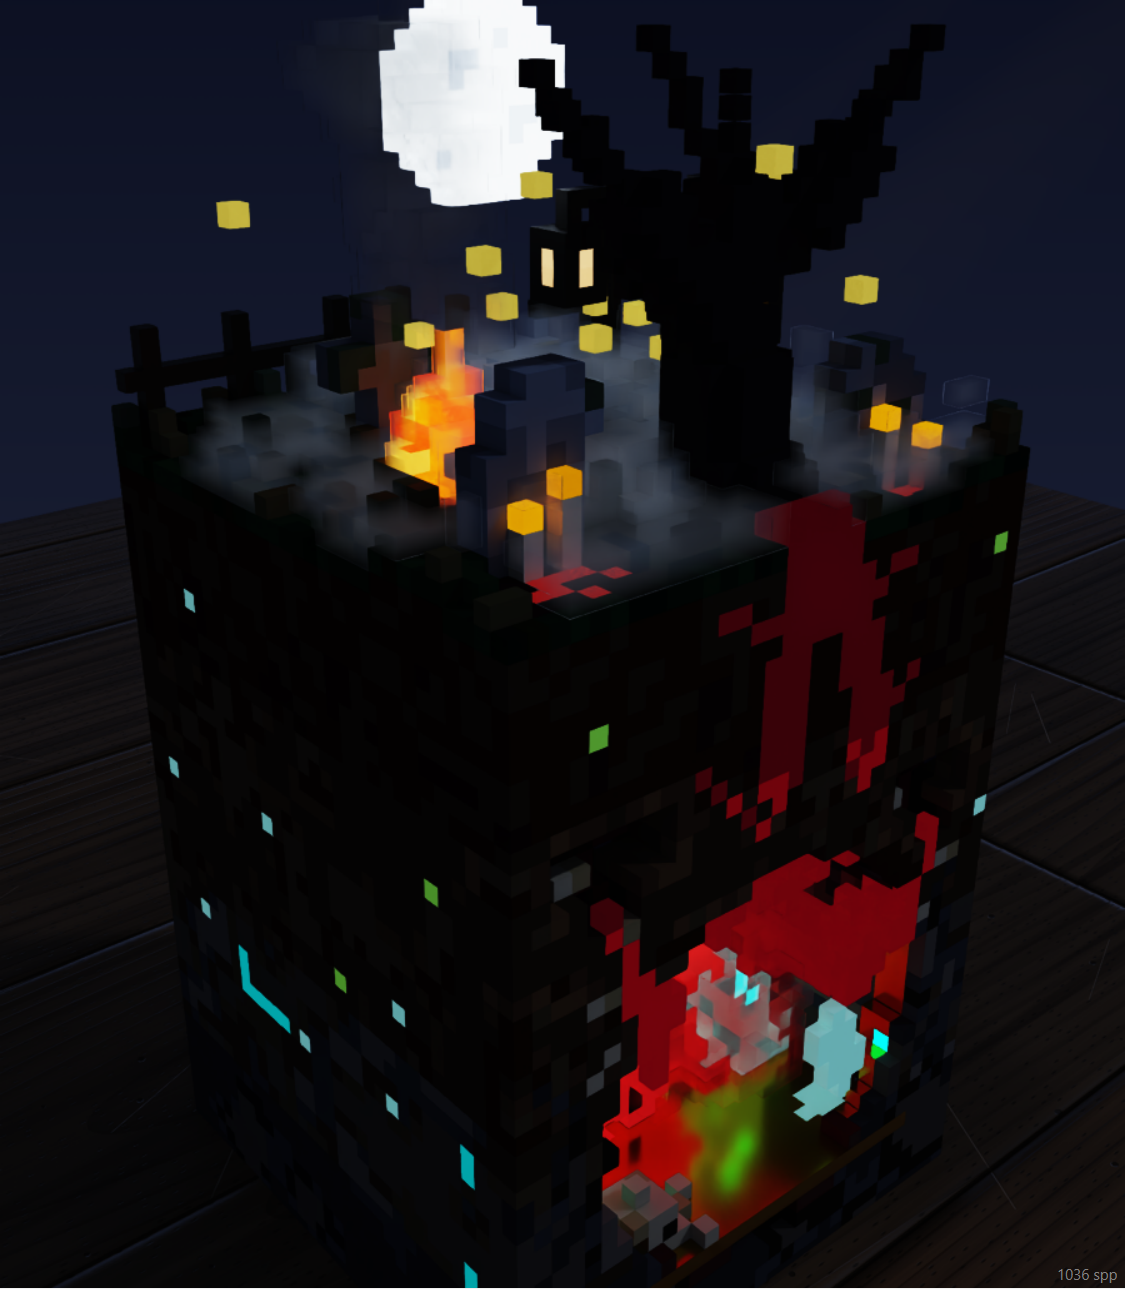
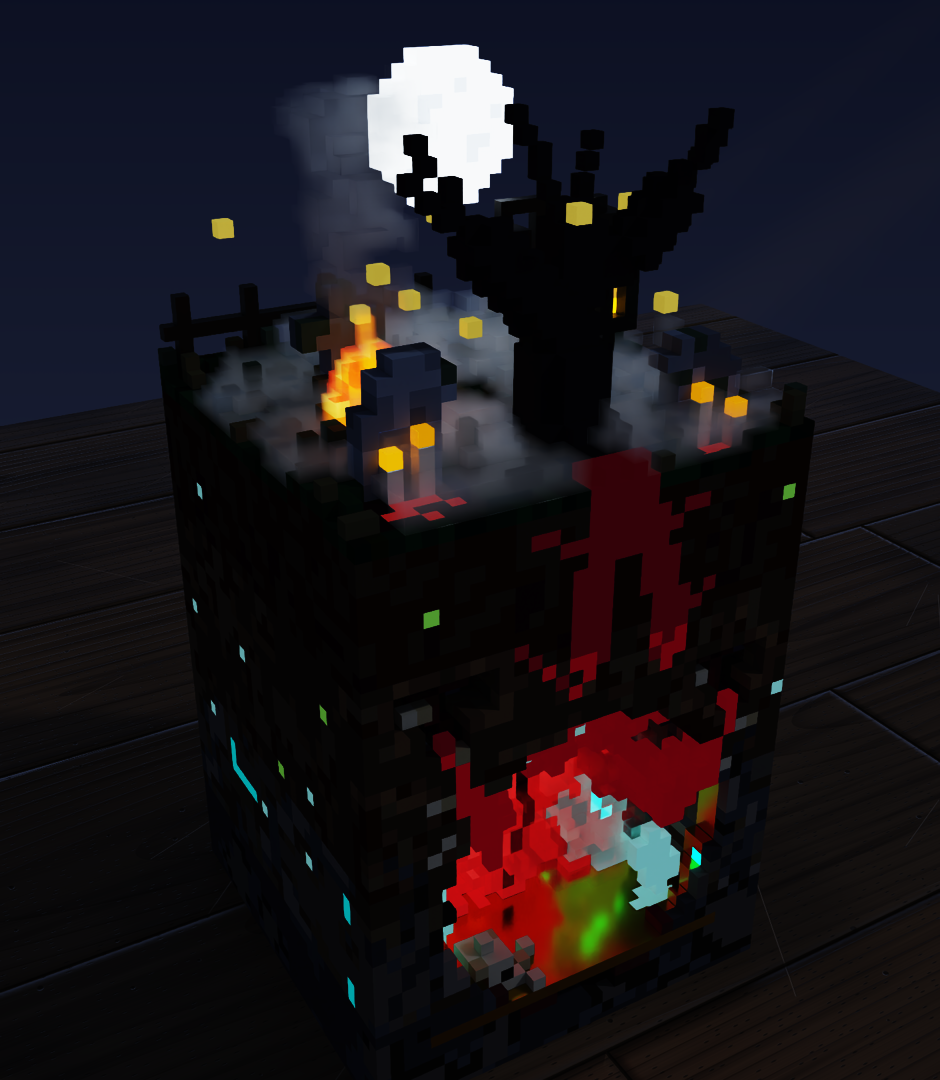
0.3.1: gases that touch keep their look, thick gas keeps its colour
Where two gases meet, each now keeps its own look (fog inside haze used
to draw as haze). The voxel colour is how a thick body of gas looks, so
white steam stays white however deep (it went grey, then black, past
about 8 voxels). Small puffs of gas no longer glow along their edges.
Two GPU tests cover the cases. The gas picture is retaken.

Needs the 0.3.1 renderer zip.

diff --git a/editor/tests/test_gas.py b/editor/tests/test_gas.py
@@ -1,0 +1,77 @@
+"""Gas in the renderer, on synthetic scenes (the GPU; SKIP_GPU=1 skips): a thick body of white steam stays
+white instead of greying to black, and where two gases touch, each keeps its own look."""
+import io
+import os
+import sys
+import unittest
+from pathlib import Path
+
+import numpy as np
+
+EDITOR = Path(__file__).resolve().parents[1]
+sys.path.insert(0, str(EDITOR))
+import sandbox  # noqa: E402,F401  the user's own editor and settings are left alone
+from headless_api import VoxelEditor  # noqa: E402
+
+STEAM, MIST, GLOWING_GAS = 35, 36, 37
+
+
+def picture(editor, yaw, pitch, light, width=800, height=400, samples=256):
+    from PIL import Image
+    png = editor.render_png(yaw, pitch, width, height, samples, light)
+    return np.asarray(Image.open(io.BytesIO(png)).convert("RGB")).astype(float) / 255
+
+
+def patch(editor, rgb, yaw, pitch, voxel):
+    """The mean colour of a 7 x 7 patch around where a voxel position shows in the picture."""
+    engine = editor._engine
+    eye, forward, right, up = engine.orbit_camera(yaw, pitch)
+    point = np.asarray(engine.origin[:3]) + np.asarray(voxel) / 32 - eye
+    depth = point @ forward
+    height, width = rgb.shape[:2]
+    fov = np.tan(np.radians(22.5))
+    u = (point @ right) / (depth * fov * width / height)
+    v = (point @ up) / (depth * fov)
+    x, y = int((u + 1) / 2 * width), int((1 - v) / 2 * height)
+    return rgb[y - 3:y + 4, x - 3:x + 4].reshape(-1, 3).mean(axis=0)
+
+
+@unittest.skipIf(os.environ.get("SKIP_GPU") == "1", "SKIP_GPU=1")
+class GasTests(unittest.TestCase):
+    def setUp(self):
+        self.editor = VoxelEditor()
+        self.addCleanup(self.editor.close)
+
+    def renders_gas(self):
+        if not hasattr(self.editor._engine.dll, "renderer_set_floor"):
+            self.skipTest("this renderer build is from before gas could be thick")
+
+    def test_thick_steam_stays_white_seen_from_its_shadow_side(self):
+        e = self.editor
+        e.new_model(48, 30, 28)
+        white = e.model.nearest_slot((240, 242, 245))
+        e.paint_box([0, 0, 0], [47, 29, 0], e.model.nearest_slot((110, 120, 90)))
+        e.paint_box([4, 4, 1], [7, 7, 4], white, STEAM)  # 4 voxels: two scatters deep
+        e.paint_box([16, 2, 1], [39, 25, 24], white, STEAM)  # 24: twelve deep
+        rgb = picture(e, 180, 5, "Day")  # from behind: what shows has scattered many times
+        self.renders_gas()
+        thin = patch(e, rgb, 180, 5, (6, 6, 3)).mean()
+        thick = patch(e, rgb, 180, 5, (28, 14, 13)).mean()
+        self.assertGreater(thick, 0.85 * thin, (thin, thick))  # was 0.46 before
+
+    def test_touching_gases_each_keep_their_own_look(self):
+        e = self.editor
+        e.new_model(24, 30, 16)
+        e.paint_box([0, 0, 0], [23, 29, 0], e.model.nearest_slot((110, 120, 90)))
+        e.paint_box([4, 6, 1], [19, 9, 12], e.model.nearest_slot((220, 226, 235)), MIST)  # a sheet of mist in front
+        e.paint_box([4, 10, 1], [19, 25, 12], e.model.nearest_slot((120, 235, 90)), GLOWING_GAS)  # glowing behind it
+        rgb = picture(e, 0, 5, "Night")  # from the front, at night: only the glow behind can be green
+        self.renders_gas()
+        r, g, b = patch(e, rgb, 0, 5, (12, 6, 7))
+        # the glow's green (bright, so red rises through the tone curve); it was mist all through, a grey
+        self.assertGreater(g, 1.25 * r, (r, g, b))
+        self.assertGreater(g, 1.8 * b, (r, g, b))
+
+
+if __name__ == "__main__":
+    unittest.main()

diff --git a/palette/build_materials.py b/palette/build_materials.py
@@ -23,7 +23,7 @@ HERE = Path(__file__).resolve().parent
 # 0..1 (the share of the remaining diffuse light that scatters under the surface), sheen 0..1 (a soft,
 # fuzzy brightening at grazing angles: cloth, moss, dust) and anisotropy -0.95..0.95 (gas only).
 # Gas (group "gas") is a volume, not a surface: light crosses its boundary unbent and scatters
-# inside, once per density voxels on average, taking the voxel colour; anisotropy above 0 sends that
+# inside, once per density voxels on average, a thick body of it looking the voxel colour; anisotropy above 0 sends that
 # light on forward (mist and steam glow toward the sun), below 0 back. Emission glows all through it,
 # with a magic light's pattern when it has one (flames).
 MATERIALS = [

diff --git a/editor/docs/guide.md b/editor/docs/guide.md
@@ -235,7 +235,7 @@ The **Materials** dock lists the materials by group: rough, glossy, metal, glowi
 
 > **Tip:** rust patches, scratches and worn edges are not textures. Paint them voxel by voxel with materials such as **rust**, **worn metal**, **scratched metal** and **worn leather**.
 
-**Gas** (smoke, steam, mist, glowing gas, flame) is a volume, not a surface: light passes into it and scatters inside, taking the voxel's colour, so mist glows where a lantern shines into it and smoke casts a soft shadow. **density** is how many voxels light travels on average before it scatters (low: thick smoke), **anisotropy** how much it scatters forward (mist and steam glow toward the sun), and **emission** makes it glow all through; the flame also flickers. Solids inside or under gas keep their faces.
+**Gas** (smoke, steam, mist, glowing gas, flame) is a volume, not a surface: light passes into it and scatters inside, so mist glows where a lantern shines into it and smoke casts a soft shadow. The voxel colour is how a thick body of the gas looks: white steam stays white however deep it is, dark smoke stays dark. Where two different gases touch, each keeps its own look. **density** is how many voxels light travels on average before it scatters (low: thick smoke), **anisotropy** how much it scatters forward (mist and steam glow toward the sun), and **emission** makes it glow all through; the flame also flickers. Solids inside or under gas keep their faces.
 
 <img src="figures/current_gas.png" width="480" alt="Mist, a fire with smoke and a glowing red haze at night">
 

diff --git a/editor/README.md b/editor/README.md
@@ -29,12 +29,14 @@ such as rust patches, scratches or worn edges are painted voxel by voxel with
 rust, worn metal, scratched metal, worn leather and so on.
 Gas (smoke, steam, mist, glowing gas, flame: group `gas`) is a volume, not a
 surface. Light crosses its boundary unbent and scatters inside, once per
-**density** voxels on average, taking the voxel colour; **anisotropy** above 0
+**density** voxels on average; the voxel colour is how a thick body of it
+looks (each scatter keeps the share of light that gives that colour in
+bulk, so white steam stays white however deep); **anisotropy** above 0
 sends that light on forward, so steam and mist glow toward the sun. Emission
 glows all through it, and the flame has the fire light's flicker (the view
 keeps drawing for it as for the magic lights). Solids inside
-or under gas keep their faces; two gases side by side draw as the one a ray
-entered first.
+or under gas keep their faces, and where two gases touch each keeps its own
+look (a ray passes from the one into the other).
 `..\palette\build_material_test.py` builds `assets\material_test.vx2` (one
 sphere per material) and renders it to `outputs\material_test.png`;
 `..\palette\build_field_sweep.py` sweeps each field. After a change to the
